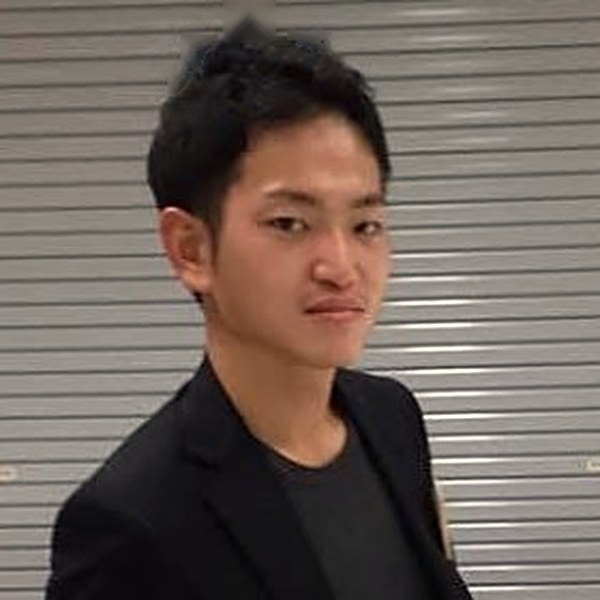
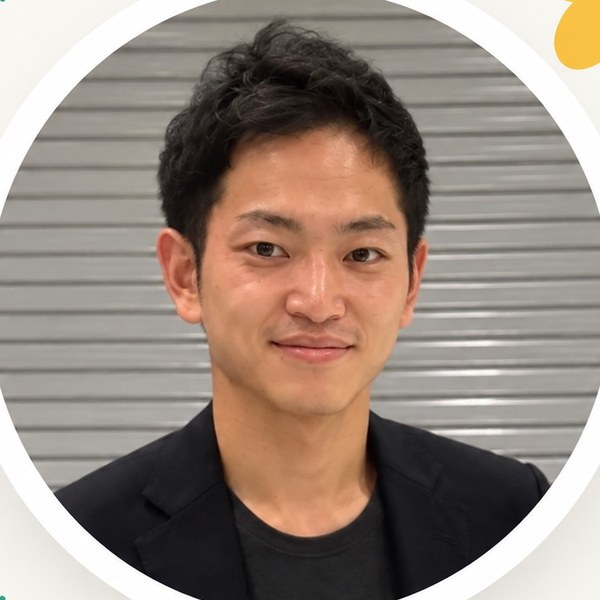
Add files via upload

diff --git a/index.html b/index.html
@@ -222,9 +222,23 @@
           <ul class="tags"><li>サロンサイト</li><li>スケジュール</li><li>予約の案内</li></ul>
         </div>
       </article>
+      <article class="hs__panel wk">
+        <a class="wk__card tilt" href="https://lunon-ballet.netlify.app/" target="_blank" rel="noopener">
+          <span class="wk__shot"><img src="images/lunon_pc.jpg" alt="lunon ballet様の公式サイト" width="1200" height="750" loading="lazy" onerror="this.parentElement.classList.add('photo-empty');this.remove();"></span>
+          <span class="wk__sp"><img src="images/lunon_sp.jpg" alt="" width="540" height="1169" loading="lazy" onerror="this.remove()"></span>
+          <span class="wk__view">サイトを<br>見る</span>
+        </a>
+        <div class="wk__txt">
+          <p class="wk__no">03</p>
+          <p class="wk__cat">大人のためのバレエサークル（足立区 北千住）</p>
+          <h3>lunon ballet 様</h3>
+          <p>子連れOKの大人バレエサークルの公式サイト。3つのクラスと料金、レッスン日、パドドゥクラスや発表会の案内を整理し、体験レッスンへの申し込みとInstagramのDMにつなげました。</p>
+          <ul class="tags"><li>教室サイト</li><li>クラス・料金</li><li>体験レッスン</li></ul>
+        </div>
+      </article>
       <div class="hs__panel hs__next">
         <div class="next">
-          <p class="next__no">03</p>
+          <p class="next__no">04</p>
           <p class="next__ttl">次は、<br>あなたのお店の番です。</p>
           <p>実績掲載にご協力いただけるお店・会社を、<strong>モニター価格</strong>でお受けしています。</p>
           <a class="btn mag" href="#price"><span>モニター価格を見る</span><i class="btn__ic"><svg><use href="#arw"/></svg></i></a>
